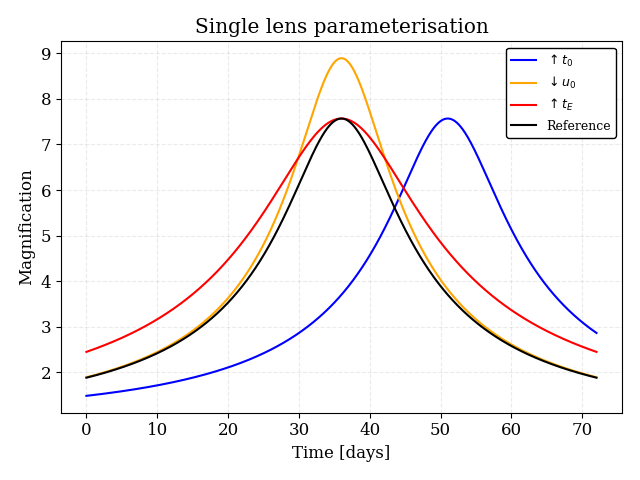
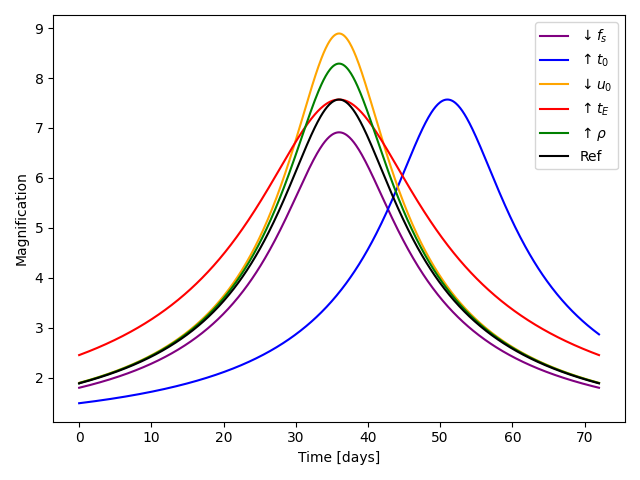
degeneracy with extra params

diff --git a/light-curve-test.py b/light-curve-test.py
@@ -17,7 +17,7 @@ import copy
 
 pltf.Style
 
-theta = [36, 0.1, 36, 0.01, 0.8, 0.25, 123]
+theta = [1.0, 36, 0.1, 36, 0.01, 0.8, 0.25, 123]
 #theta = [36, 0.1, 36, 0.01, 0.01, 0.6, 123]
 #theta = [36, 0.1, 36, 0.001, 0.005, 0.8, 89] symmetric casutic grazing
 n_epochs = 720
@@ -37,30 +37,28 @@ plt.savefig('temp.png')
 plt.clf()
 
 
-throw=throw
-
 if True:
     #plt.grid()
 
     #theta_r = [36, 0.133, 61.5,  0.001, 0.008, 1.2, 300] # crash
-    theta_r = [36, 0.133, 61.5,  0.001, 0.009, 1.10, 180]
+    theta_r = [1.0, 36, 0.133, 61.5,  0.001, 0.009, 1.10, 180]
 
     ts = [0, 72]
 
     theta_q = copy.deepcopy(theta_r)
-    theta_q[4] = theta_q[4] + 0.001
+    theta_q[5] = theta_q[5] + 0.001
     pltf.PlotLightcurve(1, theta_q, r"$\uparrow q$", "red", 1, False, ts)
     
     theta_s = copy.deepcopy(theta_r)
-    theta_s[5] = theta_s[5] + 0.04
+    theta_s[6] = theta_s[6] + 0.04
     pltf.PlotLightcurve(1, theta_s, r"$\uparrow s$", "orange", 1, False, ts)
 
     theta_a = copy.deepcopy(theta_r)
-    theta_a[6] = theta_a[6] + 120
+    theta_a[7] = theta_a[7] + 120
     #theta_a[6] = theta_a[6] - 60
     pltf.PlotLightcurve(1, theta_a, r"$\updownarrow \alpha$", "blue", 1, False, [32, 72])
 
-    pltf.PlotLightcurve(1, theta_r, "Reference", "black", 1, False, ts)
+    pltf.PlotLightcurve(1, theta_r, "Ref", "black", 1, False, ts)
 
     #plt.title('Binary lens parameterisation')
     plt.xlabel('Time [days]')
@@ -87,22 +85,30 @@ if True:
     #plt.grid()
 
 
-    theta_r = [36, 0.133, 61.5]
+    theta_r = [1.0, 36, 0.133, 61.5, 0.001]
     ts = [0, 72]
-    
+
+    theta_fs = copy.deepcopy(theta_r)
+    theta_fs[0] = theta_fs[0] - 0.1
+    pltf.PlotLightcurve(0, theta_fs, r"$\downarrow f_s$", "purple", 1, False, ts)
+
     theta_t0 = copy.deepcopy(theta_r)
-    theta_t0[0] = theta_t0[0] + 15
+    theta_t0[1] = theta_t0[1] + 15
     pltf.PlotLightcurve(0, theta_t0, r"$\uparrow t_0$", "blue", 1, False, ts)
     
     theta_u0 = copy.deepcopy(theta_r)
-    theta_u0[1] = theta_u0[1] - 0.02
+    theta_u0[2] = theta_u0[2] - 0.02
     pltf.PlotLightcurve(0, theta_u0, r"$\downarrow u_0$", "orange", 1, False, ts)
 
     theta_tE = copy.deepcopy(theta_r)
-    theta_tE[2] = theta_tE[2] + 25
+    theta_tE[3] = theta_tE[3] + 25
     pltf.PlotLightcurve(0, theta_tE, r"$\uparrow t_E$", "red", 1, False, ts)
 
-    pltf.PlotLightcurve(0, theta_r, "Reference", "black", 1, False, ts)
+    theta_p = copy.deepcopy(theta_r)
+    theta_p[4] = theta_tE[4] + 0.1
+    pltf.PlotLightcurve(0, theta_p, r"$\uparrow \rho$", "green", 1, False, ts)
+
+    pltf.PlotLightcurve(0, theta_r, "Ref", "black", 1, False, ts)
 
     #plt.title('Single lens parameterisation')
     plt.xlabel('Time [days]')

diff --git a/PlotFunctions.py b/PlotFunctions.py
@@ -357,8 +357,8 @@ def Adaptive_Progression(history, covs, name):
 def Light_Curve_Fit_Error(m, FitTheta, priors, Data, TrueModel, t, error, details, name):
 
     if m == 1:
-        FitModel = mm.Model(dict(zip(['t_0', 'u_0', 't_E'], FitTheta)))
-        FitModel.set_magnification_methods([0., 'point_source', 72.])
+        FitModel = mm.Model(dict(zip(['t_0', 'u_0', 't_E', 'rho'], FitTheta)))
+        FitModel.set_magnification_methods([0., 'finite_source_uniform_Gould94', 72.])
 
     if m == 2:
         FitModel = mm.Model(dict(zip(['t_0', 'u_0', 't_E', 'rho', 'q', 's', 'alpha'], FitTheta)))
@@ -427,23 +427,27 @@ def PlotLightcurve(m, theta, label, color, alpha, caustics, ts):
 
     if m == 0:
         model = mm.Model(dict(zip(['t_0', 'u_0', 't_E', 'rho'], theta[1:])))
-        model.set_magnification_methods([0., 'point_source', 72.])
+        model.set_magnification_methods([0., 'finite_source_uniform_Gould94', 72.])
 
     if m == 1:
         model = mm.Model(dict(zip(['t_0', 'u_0', 't_E', 'rho', 'q', 's', 'alpha'], theta[1:])))
         model.set_magnification_methods([0., 'VBBL', 72.])
 
+    epochs = np.linspace(ts[0], ts[1], 720)
+
     if caustics:
         model.plot_trajectory(t_start = ts[0], t_stop = ts[1], color = color, linewidth = 1, alpha = alpha, arrow_kwargs = {'width': 0.012})
         model.plot_caustics(color = 'purple', s = 2, marker = '.')
-    
+
     elif isinstance(label, str):
-        print('add flux to plot')
-        model.plot_magnification(t_range = ts, color = color, label = label, alpha = alpha)
+        
+        A = (model.magnification(epochs) - 1.0) * theta[0] + 1.0
+        plt.plot(epochs, A, color = color, label = label, alpha = alpha)
 
     else:
-        print('add flux to plot')
-        model.plot_magnification(t_range = ts, color = color, alpha = alpha)
+
+        A = (model.magnification(epochs) - 1.0) * theta[0] + 1.0
+        plt.plot(epochs, A, color = color, alpha = alpha)
 
     return
 
@@ -558,7 +562,7 @@ def Contour_Plot(n_dim, n_points, states, covariance, true, center, m, priors, d
                 yUpper = priors[yi].rb
             if yLower < priors[yi].lb and yi != 5:
                 yLower = priors[yi].lb
-            if yi == 4:
+            if yi == 5:
                 yLower = np.log(10e-6)
 
             xLower = np.min([np.min(states[:, xi]), base[xi]])

diff --git a/ReversibleJump.py b/ReversibleJump.py
@@ -67,12 +67,11 @@ truncate = False # automatically truncate burn in period based on autocorrelatio
 ## INITIALISATION ##
 
 # synthetic event parameters
-model_parameter_suite = [
+model_parameter_suite = [ # in the order fs, t0, u0, tE, rho, q, s, alpha
     [0.1, 36, 0.833, 31.5, 0.0096], # 0 single
     [0.8, 36, 0.833, 31.5, 0.0096, 0.0001, 1.27, 210.8], # 1 weak binary
-    [0.1, 36, 0.833, 31.5, 0.001, 0.03, 1.10, 180] # 2 caustic crossing binary
-    ]
-model_type_suite = [0, 1, 1]
+    [0.1, 36, 0.833, 31.5, 0.001, 0.03, 1.10, 180]] # 2 caustic crossing binary
+model_type_suite = [0, 1, 1] # model type associated with synethic event suite above
 
 
 light_curve_type = model_type_suite[suite_n]
@@ -115,8 +114,9 @@ elif uniform_priors == True:
     t0_upi = f.uniDist(0, 72)
     tE_upi = f.uniDist(1, 100)
     rho_upi =  f.uniDist(10**-4, 10**-2)
+    fs_upi = f.uniDist(0.1, 1)
     
-    priors = [t0_upi, u0_upi,  tE_upi, rho_upi,  q_upi, s_upi, alpha_upi]
+    priors = [fs_upi, t0_upi, u0_upi,  tE_upi, rho_upi,  q_upi, s_upi, alpha_upi]
 
 
 if sbi == True:

diff --git a/Functions.py b/Functions.py
@@ -657,7 +657,7 @@ def Synthetic_Light_Curve(true_theta, light_curve_type, n_epochs, signal_to_nois
 
     if light_curve_type == 0:
         model = mm.Model(dict(zip(['t_0', 'u_0', 't_E', 'rho'], true_theta[1:])))
-        model.set_magnification_methods([0., 'point_source', 72.])
+        model.set_magnification_methods([0., 'finite_source_uniform_Gould94', 72.])
 
     elif light_curve_type == 1:
         model = mm.Model(dict(zip(['t_0', 'u_0', 't_E', 'rho', 'q', 's', 'alpha'], true_theta[1:])))
